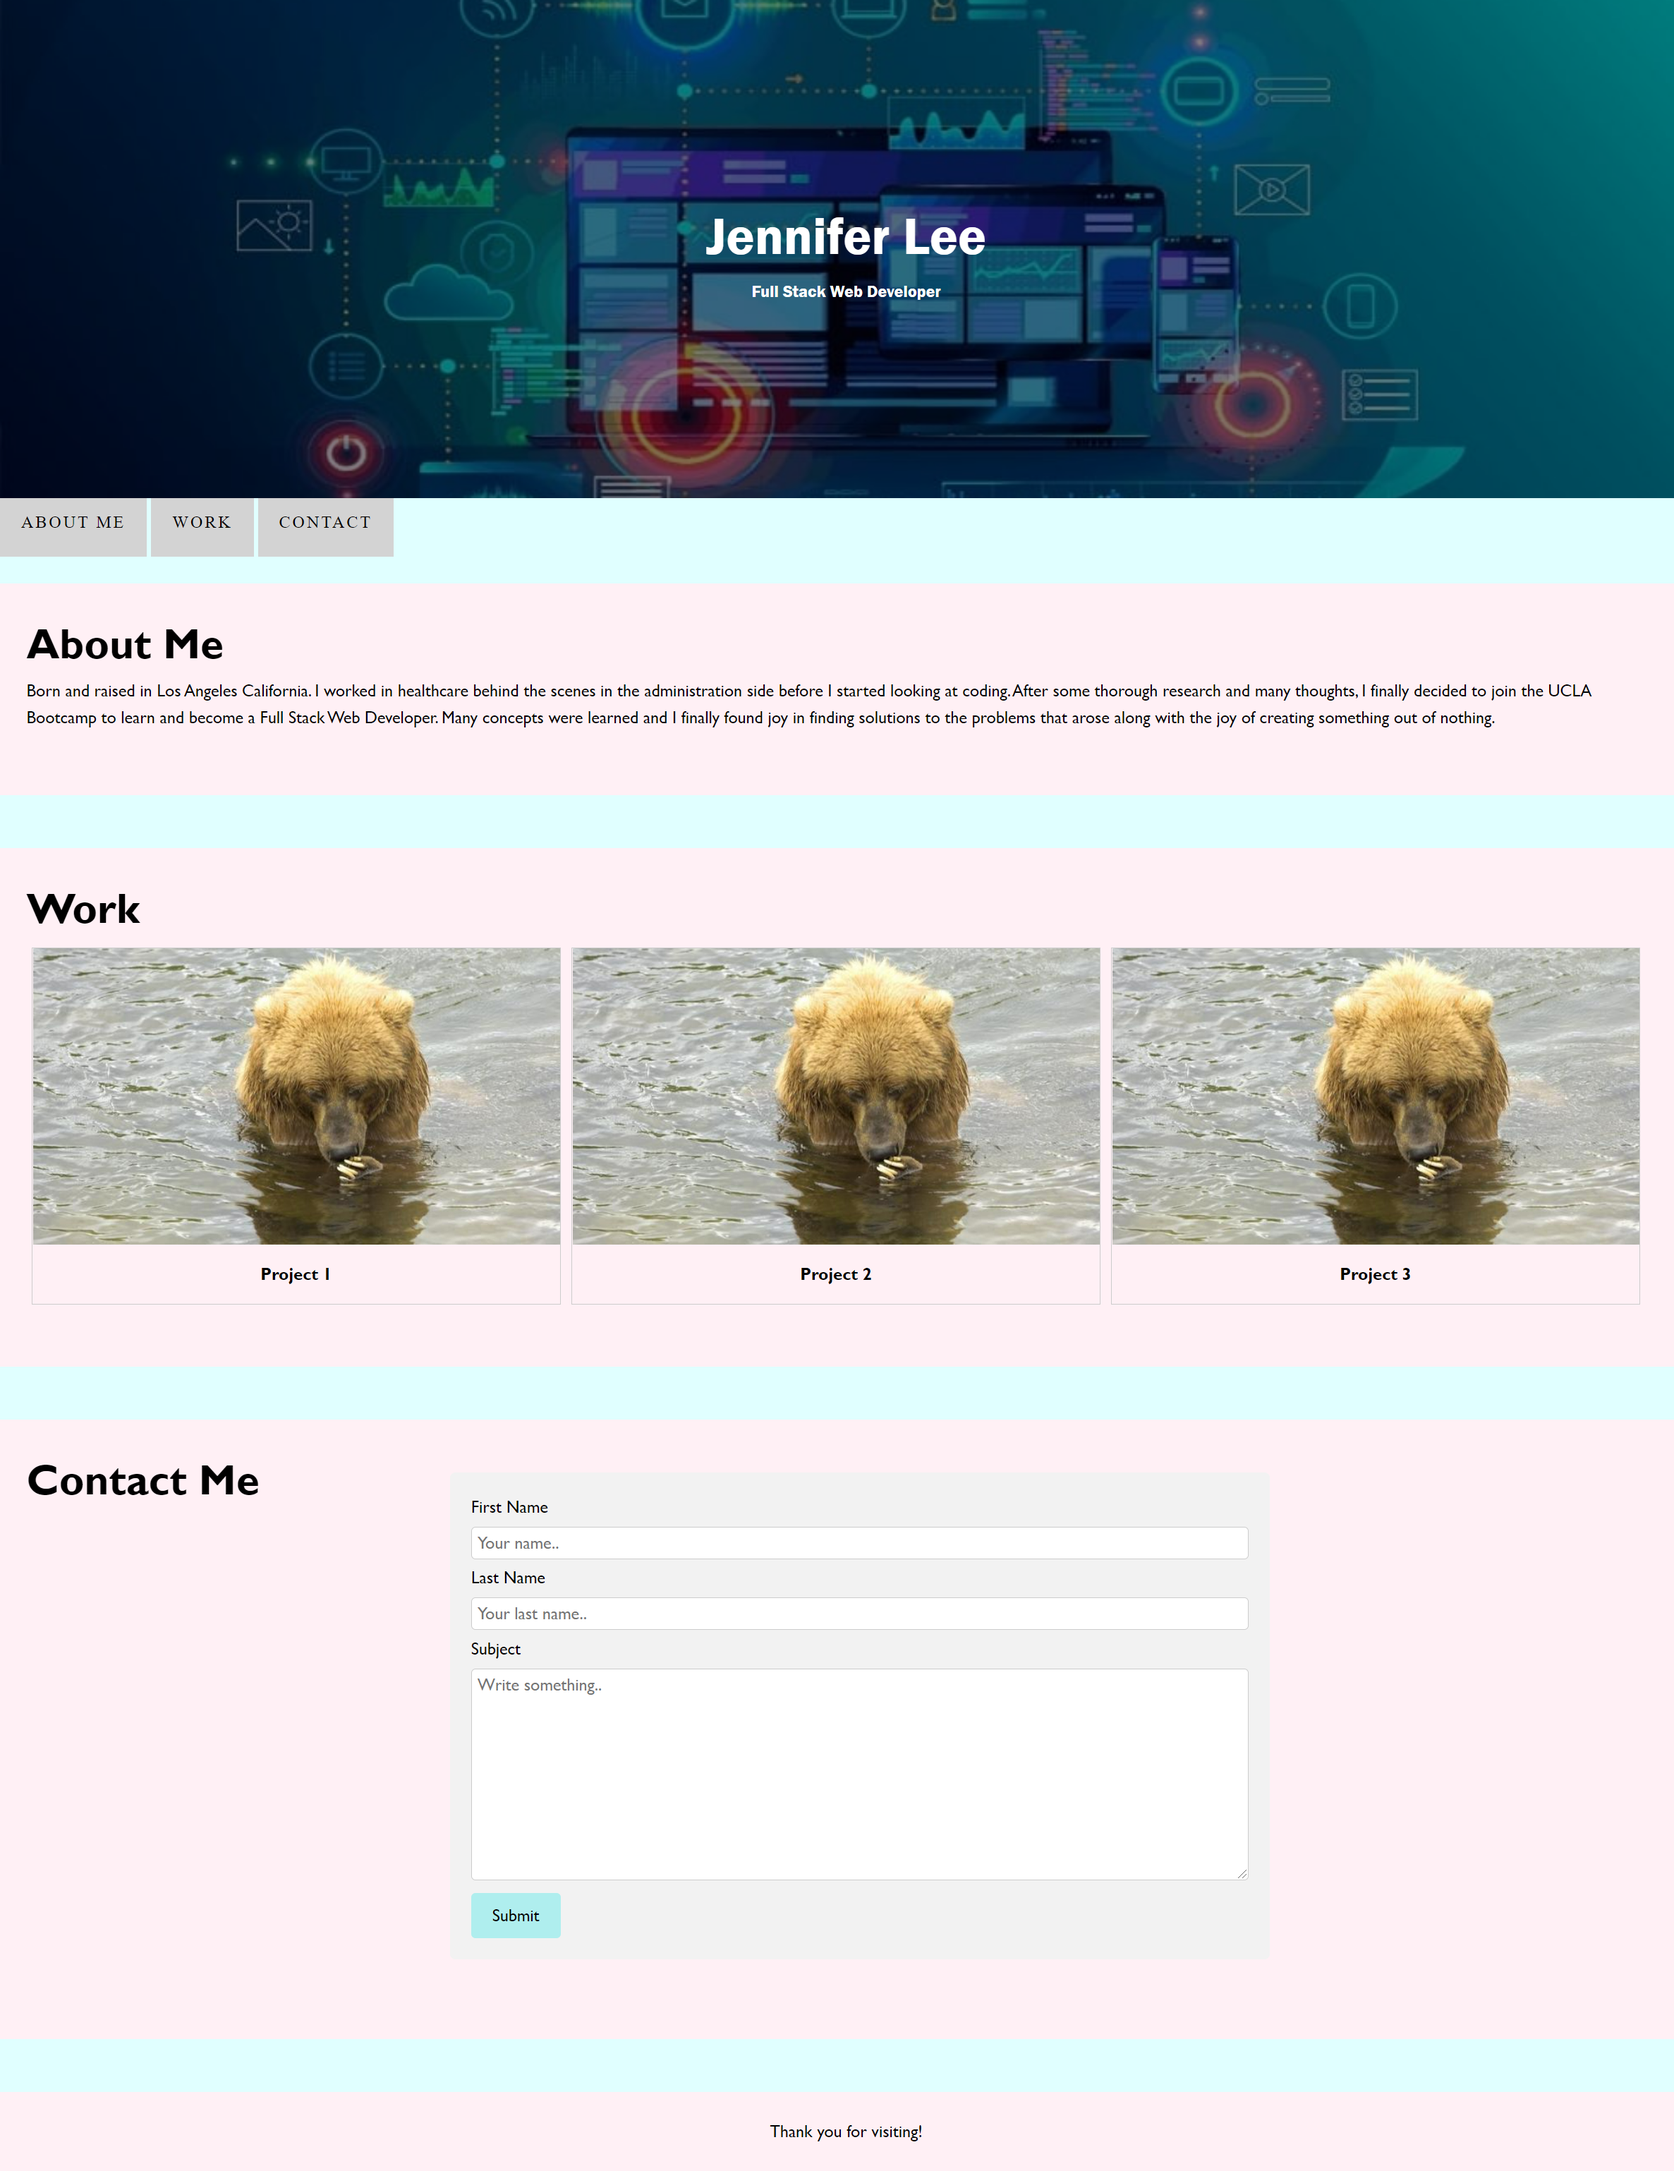
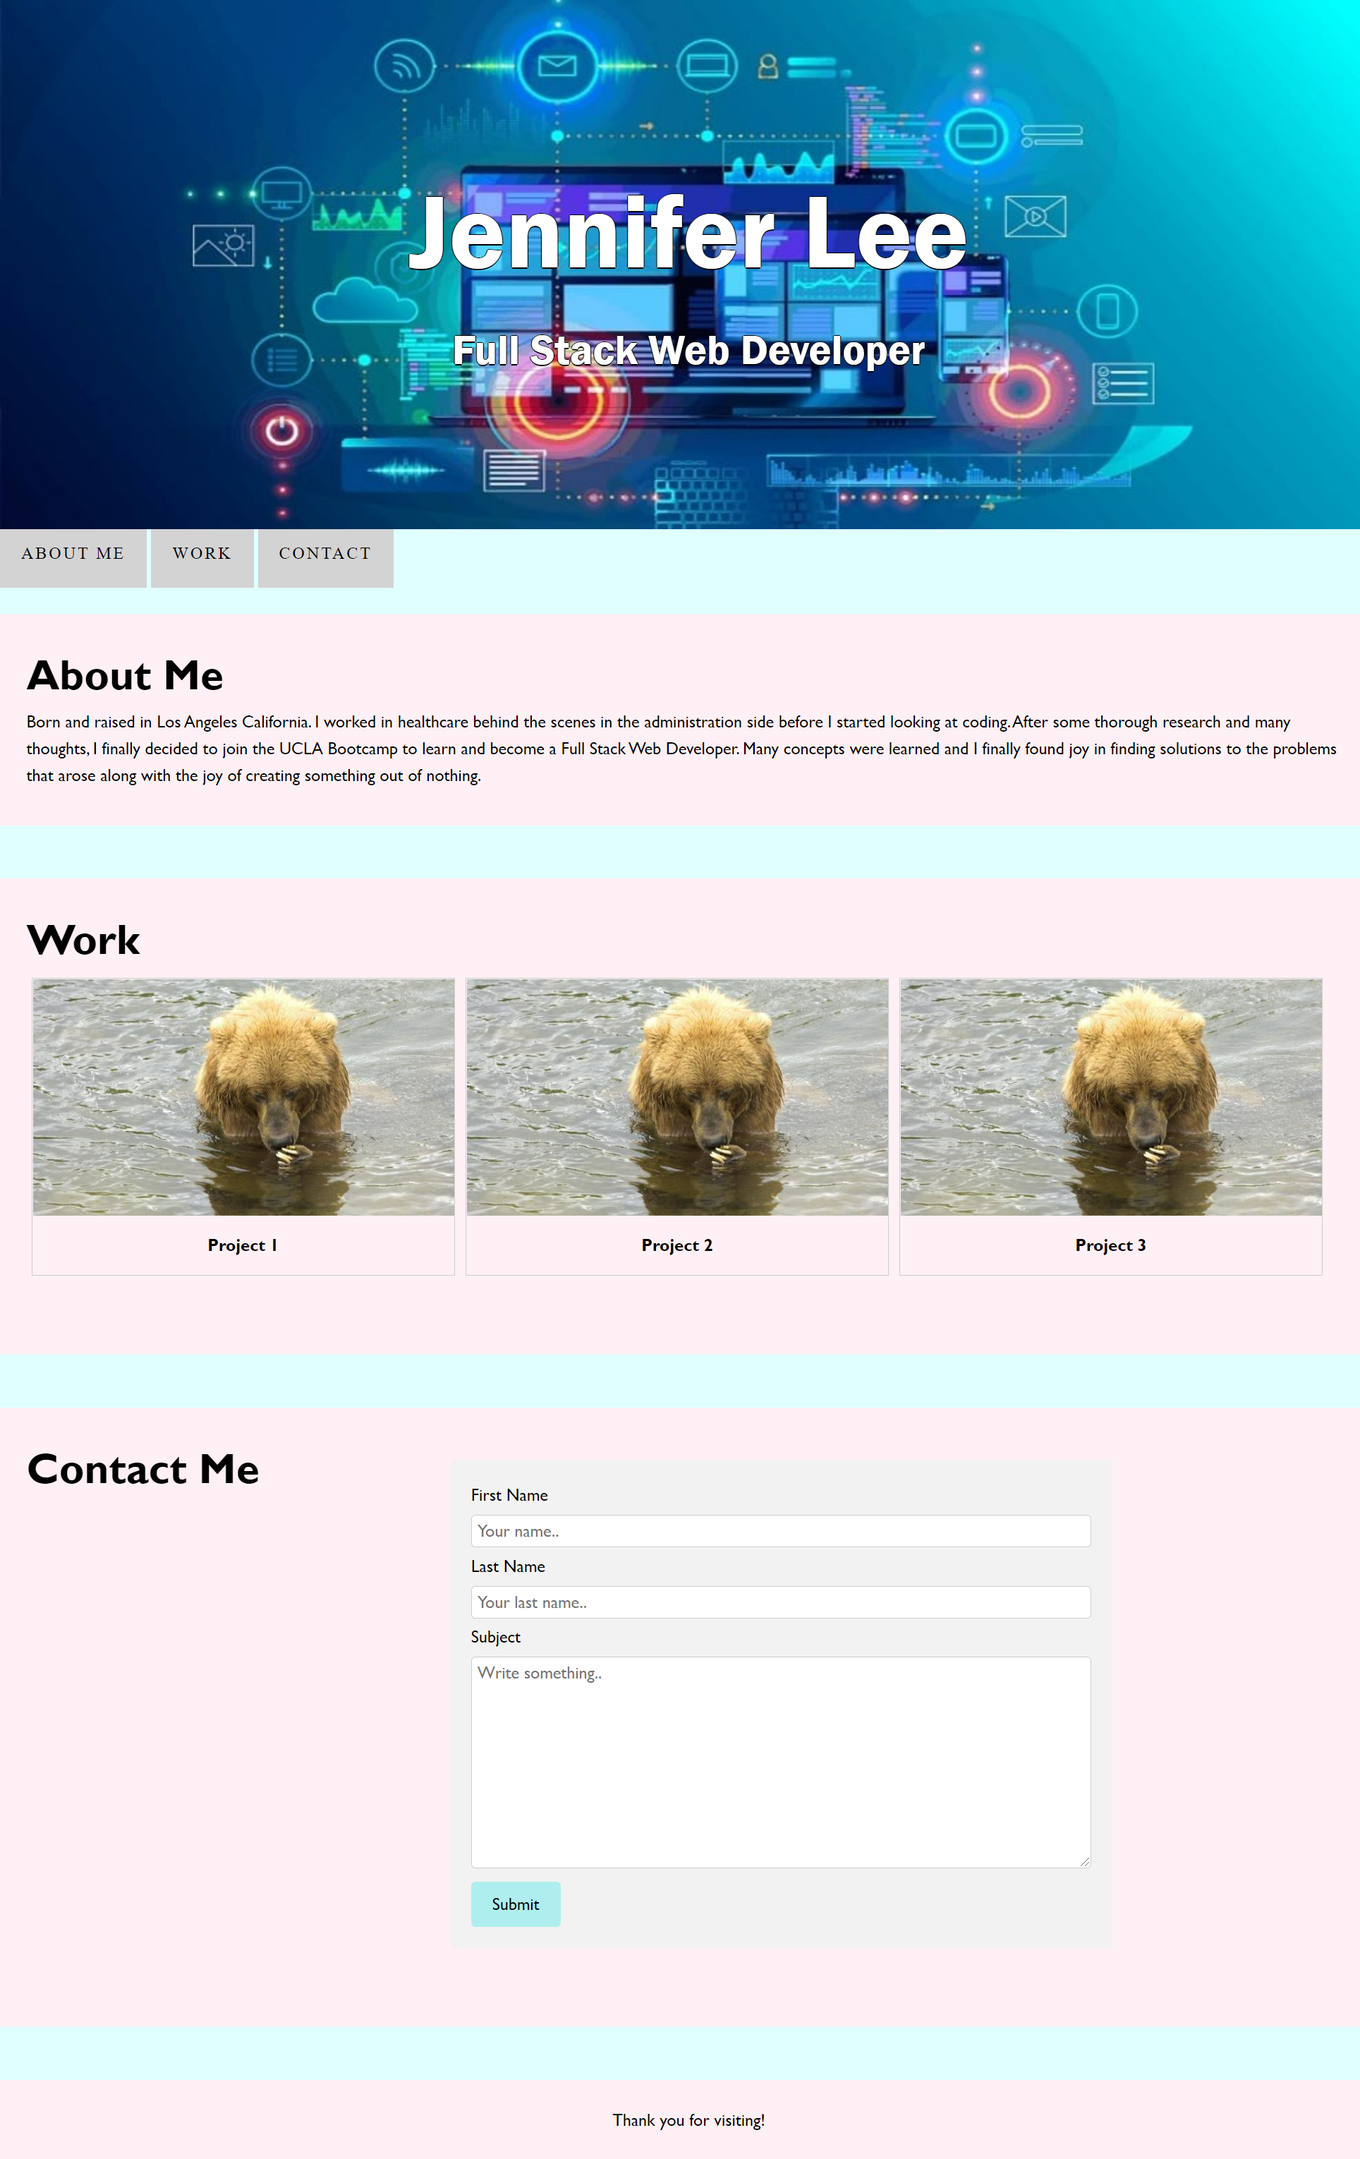
finalized the readme file and added deployed link

diff --git a/README.md b/README.md
@@ -17,27 +17,27 @@ My mission on this assignment was to create my portfolio from scratch with metho
 
 # Process
 
-After my initial panic of having to start an html completely from scratch, I started with inputting the beginning skeleton with all the meta data and links to start styling my portfolio.
+After my initial panic of having to start an html completely from scratch, I then drew a simple and quick draft on good-ole' pen and paper of what it would look like.
 
-I then drew a quick draft on good-ole' pen and paper of what it would look like. I started with making my
+I started with inputting the beginning skeleton with all the meta data and links to start styling my portfolio.
 
-I started by changing the semantics and spacing so that it was easier for me to read my code before I worked on it. This helped me stay organized a lot better and helped me pick up right after I left off whenever I needed to.
+Going in sequential order, I added the simple Navigation Bar and added the class so that it would snap to the area of the webpage it was referring to after clicking on it.
 
-Then I continued with correcting the class and id's as certain figures and text needed to be linked properly.
+Then I added a simple "About Me" section which I hope to add more to after gaining more experience and confidence throughout this course.
 
-Then I worked on accessibility and added all the alt to the figures which is needed for anyone to have access to the page.
+Moving on to the "Work" section, I added placeholding images of a bear simply enjoying his catch after his hunt. I too hope to feel that satisfaction after every project!
 
-Somewhere down the line, some code was misplaced, or bugged, so I had to go back and correct lines. This entailed me constantly changing and rechanging code and checking the html if it was working well.
+Toward the end of the webpage, I added a form to allow anyone to "Contact Me" simply by entering their information.
 
 I concluded by adding the finishing touches and final comment tags so that anyone else who read my code would be able to work it easily.
 
 # Finished!
 
-All in all, this was frustrating but honestly so fullfilling. The instant joy when a code is worked out or a page is debugged and when your final product is what it should be is so surprising. It's an overwhelming feeling of relief and satisfaction! I give thanks to all the direction, resources supplied and teamwork involved ❤
+In the beginning, I started with a rough draft of what I wanted it to be. In that process, I had researched and found styles that I added but wasn't familiar with or taught yet. It confused me and didn't deliver the webpage afterall. With help from my wonderful tutor, he aided me in removing things that just weren't necessary at this stage in my journey and guided me patiently in simplifying the webpage back to its core. Always be grounded in the basics.
 
 # Have a Look See
 
-<img src="./assets/images/Horiseon-Page.png">
+<img src="./assets/images/portfolio-page.png">
 
 
-# [See It For Yourself Here](https://jlee3883.github.io/Homework1/)
+# [See It For Yourself Here](https://jlee3883.github.io/Jenn-s-Portfolio/) ❤
